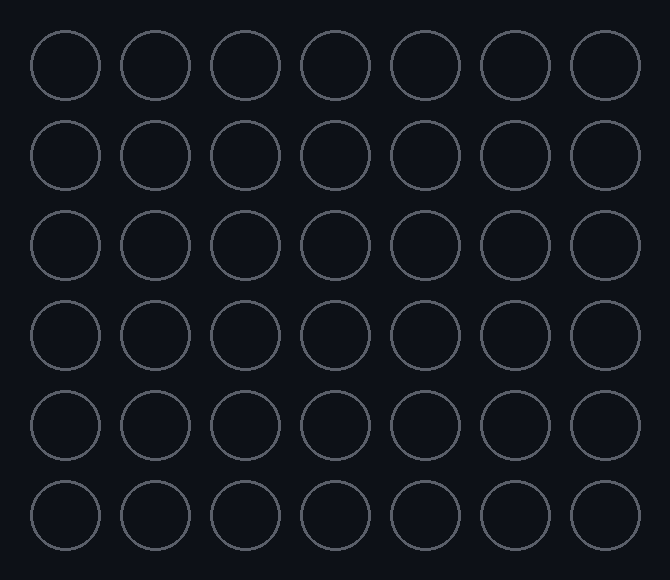
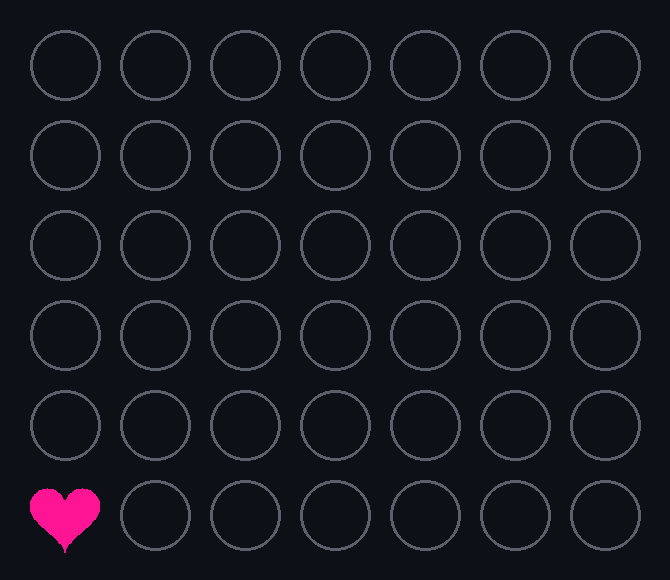
Connect 4 move

Changed region(s): [[0.0299, 0.8069, 0.1493, 0.9621]]

diff --git a/README.md b/README.md
@@ -173,25 +173,25 @@ I write about things I'm learning, building, and figuring out along the way.
   <p>Click a column number below to drop your disc!</p>
 
   <p>
-    <a href="https://github.com/Ruvaaa/Ruvaaa/issues/new?title=connect4%7Cdrop%7Cred%7C1"><b>[ 1 🩷 ]</b></a>
+    <a href="https://github.com/Ruvaaa/Ruvaaa/issues/new?title=connect4%7Cdrop%7Cblue%7C1"><b>[ 1 🤍 ]</b></a>
     &nbsp;
-    <a href="https://github.com/Ruvaaa/Ruvaaa/issues/new?title=connect4%7Cdrop%7Cred%7C2"><b>[ 2 🩷 ]</b></a>
+    <a href="https://github.com/Ruvaaa/Ruvaaa/issues/new?title=connect4%7Cdrop%7Cblue%7C2"><b>[ 2 🤍 ]</b></a>
     &nbsp;
-    <a href="https://github.com/Ruvaaa/Ruvaaa/issues/new?title=connect4%7Cdrop%7Cred%7C3"><b>[ 3 🩷 ]</b></a>
+    <a href="https://github.com/Ruvaaa/Ruvaaa/issues/new?title=connect4%7Cdrop%7Cblue%7C3"><b>[ 3 🤍 ]</b></a>
     &nbsp;
-    <a href="https://github.com/Ruvaaa/Ruvaaa/issues/new?title=connect4%7Cdrop%7Cred%7C4"><b>[ 4 🩷 ]</b></a>
+    <a href="https://github.com/Ruvaaa/Ruvaaa/issues/new?title=connect4%7Cdrop%7Cblue%7C4"><b>[ 4 🤍 ]</b></a>
     &nbsp;
-    <a href="https://github.com/Ruvaaa/Ruvaaa/issues/new?title=connect4%7Cdrop%7Cred%7C5"><b>[ 5 🩷 ]</b></a>
+    <a href="https://github.com/Ruvaaa/Ruvaaa/issues/new?title=connect4%7Cdrop%7Cblue%7C5"><b>[ 5 🤍 ]</b></a>
     &nbsp;
-    <a href="https://github.com/Ruvaaa/Ruvaaa/issues/new?title=connect4%7Cdrop%7Cred%7C6"><b>[ 6 🩷 ]</b></a>
+    <a href="https://github.com/Ruvaaa/Ruvaaa/issues/new?title=connect4%7Cdrop%7Cblue%7C6"><b>[ 6 🤍 ]</b></a>
     &nbsp;
-    <a href="https://github.com/Ruvaaa/Ruvaaa/issues/new?title=connect4%7Cdrop%7Cred%7C7"><b>[ 7 🩷 ]</b></a>
+    <a href="https://github.com/Ruvaaa/Ruvaaa/issues/new?title=connect4%7Cdrop%7Cblue%7C7"><b>[ 7 🤍 ]</b></a>
   </p>
 
   <br />
 
   <img
-    src="https://raw.githubusercontent.com/Ruvaaa/Ruvaaa/main/connect4/board.png?v=0"
+    src="https://raw.githubusercontent.com/Ruvaaa/Ruvaaa/main/connect4/board.png?v=1"
     alt="Connect 4 Board"
     width="350"
   />
@@ -199,7 +199,7 @@ I write about things I'm learning, building, and figuring out along the way.
   <br />
 
   <img
-    src="https://raw.githubusercontent.com/Ruvaaa/Ruvaaa/main/connect4/status.png?v=0"
+    src="https://raw.githubusercontent.com/Ruvaaa/Ruvaaa/main/connect4/status.png?v=1"
     alt="Connect 4 Game Status"
   />
 
